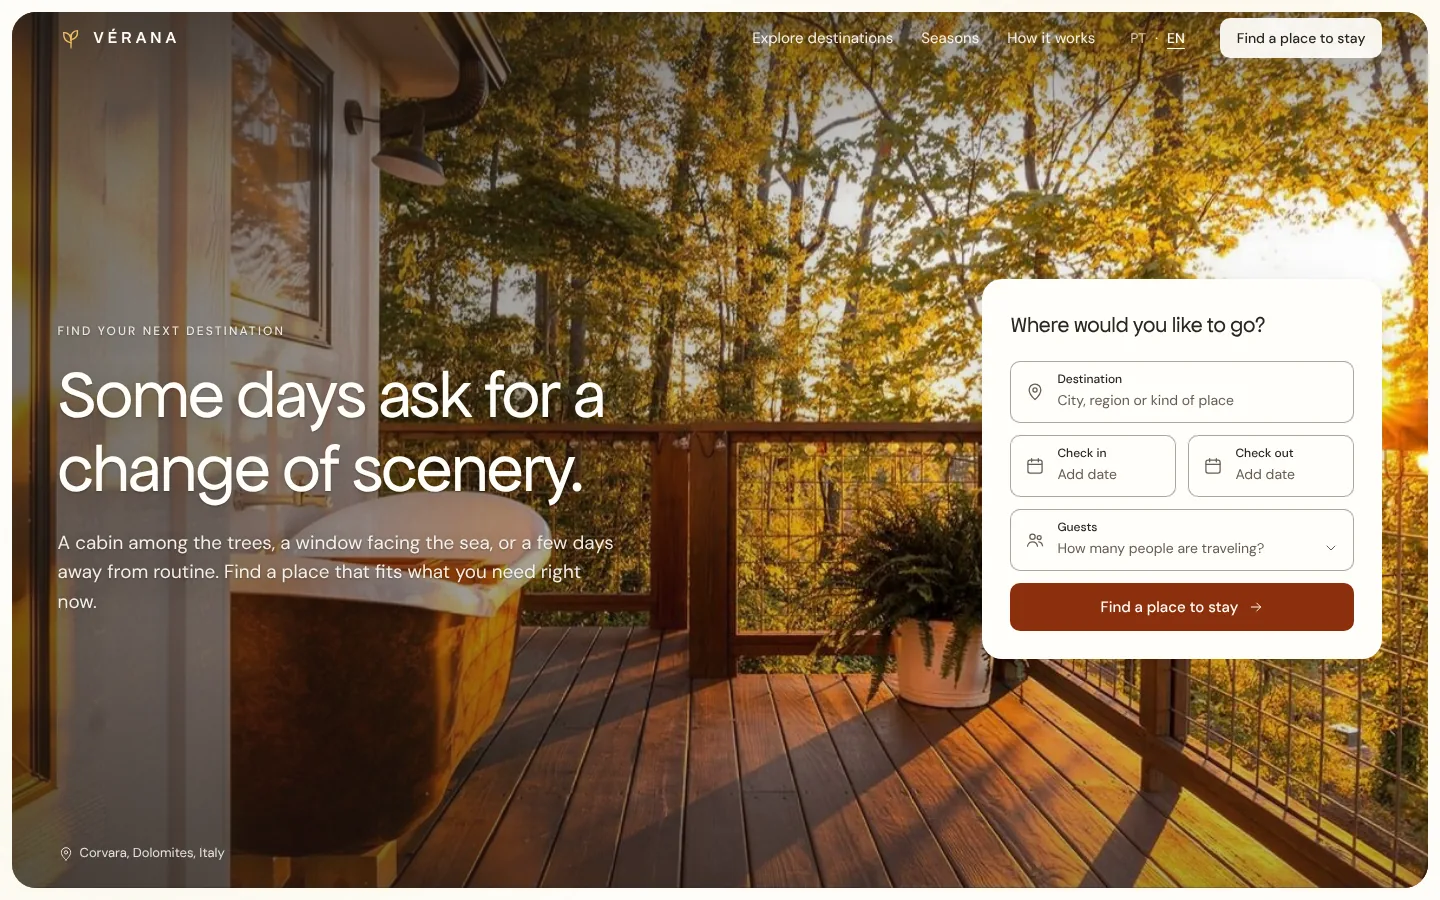
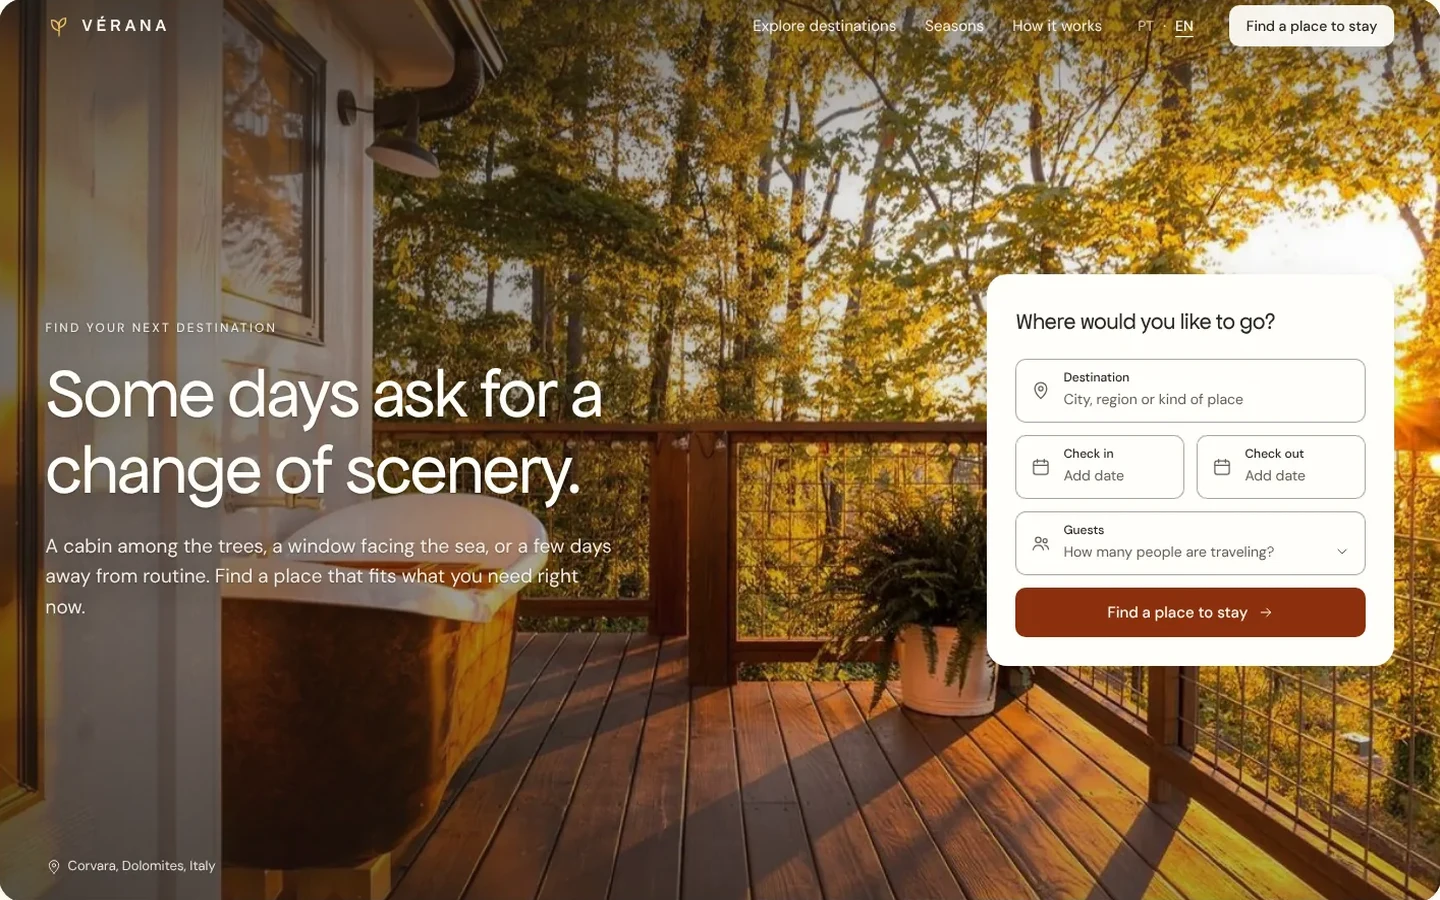
Refinos: cards levam ao estudo de caso, abordagem em três etapas, sobre enxuto, menu mobile, capas uniformes
Claude-Session: https://claude.ai/code/session_01BZ456HDf5k3tjUDJzN71Gb

diff --git a/index.html b/index.html
@@ -20,7 +20,7 @@
    Preto abre e fecha, branco apresenta o trabalho, o roxo só seleciona. */
 :root{
   --black:#08080C; --white:#FFFFFF; --purple:#7954F6;
-  --ink:#08080C; --ink-2:#55545E; --ink-3:#8B8A94; --paper-2:#F3F2F6;
+  --ink:#08080C; --ink-2:#55545E; --ink-3:#6A6973; --paper-2:#F3F2F6;
   --on-dark-2:#A6A5AF; --line-dark:#24232B;
   --display:"Archivo", "Archivo Variable", "Arial Narrow", sans-serif;
   --serif:"Instrument Serif", Georgia, serif;
@@ -38,7 +38,7 @@ button{font:inherit;color:inherit;background:none;border:0;padding:0;cursor:poin
 img{display:block;max-width:100%}
 ::selection{background:var(--purple);color:var(--white)}
 :focus-visible{outline:2px solid var(--purple);outline-offset:4px;border-radius:4px}
-section{scroll-margin-top:64px}
+section{scroll-margin-top:96px}
 
 .wrap{padding-inline:var(--pad)}
 .cols{display:grid;grid-template-columns:repeat(12,minmax(0,1fr));column-gap:var(--gap)}
@@ -105,24 +105,27 @@ body.on-light .top.is-solid{background:rgba(255,255,255,.86)}
 /* projetos: duas colunas idênticas */
 .grid{display:grid;grid-template-columns:repeat(2,minmax(0,1fr));column-gap:var(--gap);row-gap:clamp(48px, 5.4vw, 80px)}
 .card{display:block}
+.card__media{display:block}
 .card__img{aspect-ratio:16/10;border-radius:var(--r);overflow:hidden;background:var(--paper-2)}
 .card__img img{width:100%;height:100%;object-fit:cover;object-position:top;transition:transform 1.1s var(--ease)}
 .card__row{display:flex;align-items:baseline;justify-content:space-between;gap:16px;margin-top:22px}
 .card__name{margin:0;font-family:var(--display);font-stretch:62%;font-weight:800;text-transform:uppercase;font-size:clamp(28px, 2.4vw, 36px);line-height:1;transition:color .3s var(--ease)}
 .card__cat{font-size:14px;color:var(--ink-3);white-space:nowrap}
 .card__desc{margin:10px 0 0;max-width:46ch;color:var(--ink-2)}
+.card__links{display:flex;gap:28px;margin-top:18px;font-size:15px;font-weight:500}
+.card__links a{display:inline-flex;gap:6px;align-items:center;color:var(--ink);padding-block:6px;border-bottom:1.5px solid transparent;transition:color .3s var(--ease),border-color .3s var(--ease)}
+.card__links a:hover{color:var(--purple);border-color:var(--purple)}
 @media (hover:hover) and (pointer:fine){
   .card:hover .card__img img{transform:scale(1.025)}
   .card:hover .card__name{color:var(--purple)}
 }
-.cases{margin-top:clamp(36px, 4vw, 56px);color:var(--ink-3);font-size:14px}
-.cases a{color:var(--ink);border-bottom:1px solid rgba(8,8,12,.2);transition:border-color .3s, color .3s}
-.cases a:hover{color:var(--purple);border-color:var(--purple)}
 
-/* abordagem: um parágrafo, com os três verbos dentro do texto */
+/* abordagem: a ideia em uma frase e as três etapas lado a lado */
 .approach .title{grid-column:1 / span 4}
-.approach__text{grid-column:5 / span 8;margin:0;font-family:var(--serif);font-size:clamp(28px, 3vw, 44px);line-height:1.14;letter-spacing:-.01em;color:var(--ink-2)}
-.approach__text em{font-style:italic;color:var(--ink)}
+.approach__lead{grid-column:5 / span 8;margin:0;font-family:var(--serif);font-size:clamp(28px, 3vw, 44px);line-height:1.14;letter-spacing:-.005em;color:var(--ink)}
+.steps{grid-column:5 / span 8;display:grid;grid-template-columns:repeat(3,minmax(0,1fr));column-gap:var(--gap);margin:clamp(40px, 4.4vw, 64px) 0 0;padding:0;list-style:none}
+.steps b{display:block;font-family:var(--serif);font-style:italic;font-weight:400;font-size:clamp(34px, 3.2vw, 48px);line-height:1;letter-spacing:-.01em;color:var(--purple)}
+.steps span{display:block;margin-top:12px;max-width:24ch;color:var(--ink-2);line-height:1.5}
 
 /* sobre */
 .about__photo{grid-column:1 / span 5;margin:0;border-radius:var(--r);overflow:hidden;aspect-ratio:4/5;background:var(--paper-2)}
@@ -130,6 +133,8 @@ body.on-light .top.is-solid{background:rgba(255,255,255,.86)}
 .about__copy{grid-column:7 / span 6;align-self:center}
 .about__copy .title{margin-bottom:32px}
 .about__copy .lead{margin-bottom:24px;color:var(--ink)}
+.about__does{display:flex;flex-wrap:wrap;gap:10px;margin:28px 0 0;padding:0;list-style:none}
+.about__does li{padding:9px 16px;border-radius:999px;background:var(--paper-2);color:var(--ink);font-size:15px}
 .about__copy p:not(.lead){margin:0 0 16px;max-width:54ch;color:var(--ink-2);font-size:17px;line-height:1.65}
 
 /* ===================== CONTATO ===================== */
@@ -161,7 +166,7 @@ body.on-light .top.is-solid{background:rgba(255,255,255,.86)}
   .head .title{grid-column:1 / -1}
   .head .lead{grid-column:1 / span 8;margin-top:20px}
   .approach .title{grid-column:1 / -1;margin-bottom:28px}
-  .approach__text{grid-column:1 / -1}
+  .approach__lead,.steps{grid-column:1 / -1}
   .about__photo{grid-column:1 / span 6}
   .about__copy{grid-column:7 / span 6}
   .contact__title{grid-column:1 / -1}
@@ -172,15 +177,22 @@ body.on-light .top.is-solid{background:rgba(255,255,255,.86)}
    Os projetos ficam um por linha, com o mesmo cartão. */
 @media (max-width:700px){
   .top{padding:16px var(--pad)}
-  .nav{display:none}
-  .hero{padding-top:120px;padding-bottom:88px}
-  .brand span{display:block}
+  .top{flex-wrap:wrap;row-gap:14px;align-items:baseline}
+  .top__end{display:contents}
+  .lang{order:2}
+  .nav{order:3;flex:0 0 100%;gap:26px;font-size:15px}
+  .nav a{opacity:.75;padding-block:2px}
+  .top.is-solid{padding-block:12px}
+  .hero{padding-top:172px;padding-bottom:88px}
+  .brand span{display:none}
   .hero__intro{grid-column:1 / -1}
   .hero__title .l1{font-size:21vw}
   .hero__title .l2{font-size:14.6vw;text-align:left}
   .head .lead{grid-column:1 / -1}
   .grid{grid-template-columns:1fr}
   .card__row{flex-direction:column;gap:6px}
+  .steps{grid-template-columns:1fr;row-gap:28px}
+  .steps span{max-width:none}
   .about__photo,.about__copy{grid-column:1 / -1}
   .about__photo{margin-bottom:48px}
   .contact__side{grid-column:1 / -1}
@@ -214,7 +226,7 @@ body.on-light .top.is-solid{background:rgba(255,255,255,.86)}
     </h1>
     <div class="cols">
       <div class="hero__intro">
-        <p class="lead" data-i18n="heroText">Web designer com atuação em UX/UI. <span>Crio interfaces e experiências digitais em que cada escolha visual responde a uma pergunta sobre quem vai usar.</span></p>
+        <p class="lead" data-i18n="heroText">Crio interfaces em que cada escolha visual <span>responde a uma pergunta sobre quem vai usar.</span></p>
       </div>
     </div>
   </section>
@@ -223,43 +235,46 @@ body.on-light .top.is-solid{background:rgba(255,255,255,.86)}
     <section class="block wrap" id="trabalhos" aria-labelledby="work-title">
       <div class="cols head">
         <h2 class="title" id="work-title" data-i18n="workTitle">Projetos selecionados</h2>
-        <p class="lead" data-i18n="workText">Experiências digitais construídas com intenção, clareza e <em>personalidade.</em></p>
+        <p class="lead" data-i18n="workText">Do problema à interface <em>publicada.</em></p>
       </div>
 
       <div class="grid">
-        <a class="card" href="https://nexus-games-roan-xi.vercel.app/?lang=pt" data-href-pt="https://nexus-games-roan-xi.vercel.app/?lang=pt" data-href-en="https://nexus-games-roan-xi.vercel.app/?lang=en" target="_blank" rel="noopener">
-          <div class="card__img"><img src="assets/hero/nexus-d.webp" data-src-pt="assets/hero/nexus-d.webp" data-src-en="assets/hero/nexus-d-en.webp" alt="Página inicial da Nexus" width="1600" height="1000" loading="lazy"></div>
-          <div class="card__row"><h3 class="card__name">Nexus</h3><span class="card__cat" data-i18n="catNexus">UX/UI e Web Design</span></div>
+        <article class="card">
+          <a class="card__media" href="https://nexus-portifolio-seven.vercel.app/" data-href-pt="https://nexus-portifolio-seven.vercel.app/" data-href-en="https://nexus-portifolio-seven.vercel.app/?lang=en" target="_blank" rel="noopener" tabindex="-1" aria-hidden="true"><div class="card__img"><img src="assets/hero/nexus-d.webp" data-src-pt="assets/hero/nexus-d.webp" data-src-en="assets/hero/nexus-d-en.webp" alt="Página inicial da Nexus" width="1600" height="1000" loading="lazy"></div></a>
+          <div class="card__row"><h3 class="card__name"><a href="https://nexus-portifolio-seven.vercel.app/" data-href-pt="https://nexus-portifolio-seven.vercel.app/" data-href-en="https://nexus-portifolio-seven.vercel.app/?lang=en" target="_blank" rel="noopener">Nexus</a></h3><span class="card__cat" data-i18n="catNexus">UX/UI e Web Design</span></div>
           <p class="card__desc" data-i18n="descNexus">Uma só biblioteca para jogos da Steam, do Xbox e da Epic, com recomendações que explicam o porquê.</p>
-        </a>
-        <a class="card" href="https://lueur-site.vercel.app/?lang=pt" data-href-pt="https://lueur-site.vercel.app/?lang=pt" data-href-en="https://lueur-site.vercel.app/?lang=en" target="_blank" rel="noopener">
-          <div class="card__img"><img src="assets/hero/lueur-d.webp" data-src-pt="assets/hero/lueur-d.webp" data-src-en="assets/hero/lueur-d-en.webp" alt="Página inicial da Lueur" width="1440" height="900" loading="lazy"></div>
-          <div class="card__row"><h3 class="card__name">Lueur</h3><span class="card__cat" data-i18n="catLueur">Web Design</span></div>
+          <div class="card__links"><a href="https://nexus-portifolio-seven.vercel.app/" data-href-pt="https://nexus-portifolio-seven.vercel.app/" data-href-en="https://nexus-portifolio-seven.vercel.app/?lang=en" target="_blank" rel="noopener"><span data-i18n="caseLink">Ver estudo de caso</span> →</a></div>
+        </article>
+        <article class="card">
+          <a class="card__media" href="https://lueur-portifolio.vercel.app" data-href-pt="https://lueur-portifolio.vercel.app" target="_blank" rel="noopener" tabindex="-1" aria-hidden="true"><div class="card__img"><img src="assets/hero/lueur-d.webp" data-src-pt="assets/hero/lueur-d.webp" data-src-en="assets/hero/lueur-d-en.webp" alt="Página inicial da Lueur" width="1440" height="900" loading="lazy"></div></a>
+          <div class="card__row"><h3 class="card__name"><a href="https://lueur-portifolio.vercel.app" data-href-pt="https://lueur-portifolio.vercel.app" target="_blank" rel="noopener">Lueur</a></h3><span class="card__cat" data-i18n="catLueur">Web Design</span></div>
           <p class="card__desc" data-i18n="descLueur">Site de uma perfumaria conceitual, construído em torno do que fica depois que você sai.</p>
-        </a>
-        <a class="card" href="https://verana-jet.vercel.app" data-href-pt="https://verana-jet.vercel.app" data-href-en="https://verana-jet.vercel.app/?lang=en" target="_blank" rel="noopener">
-          <div class="card__img"><img src="assets/hero/verana-d.webp" data-src-pt="assets/hero/verana-d.webp" data-src-en="assets/hero/verana-d-en.webp" alt="Página inicial da Verana" width="1440" height="900" loading="lazy"></div>
-          <div class="card__row"><h3 class="card__name">Verana</h3><span class="card__cat" data-i18n="catVerana">UX/UI e Web Design</span></div>
+          <div class="card__links"><a href="https://lueur-portifolio.vercel.app" data-href-pt="https://lueur-portifolio.vercel.app" target="_blank" rel="noopener"><span data-i18n="caseLink">Ver estudo de caso</span> →</a></div>
+        </article>
+        <article class="card">
+          <a class="card__media" href="https://verana-case.vercel.app" data-href-pt="https://verana-case.vercel.app" data-href-en="https://verana-case.vercel.app?lang=en" target="_blank" rel="noopener" tabindex="-1" aria-hidden="true"><div class="card__img"><img src="assets/hero/verana-d.webp" data-src-pt="assets/hero/verana-d.webp" data-src-en="assets/hero/verana-d-en.webp" alt="Página inicial da Verana" width="1440" height="900" loading="lazy"></div></a>
+          <div class="card__row"><h3 class="card__name"><a href="https://verana-case.vercel.app" data-href-pt="https://verana-case.vercel.app" data-href-en="https://verana-case.vercel.app?lang=en" target="_blank" rel="noopener">Verana</a></h3><span class="card__cat" data-i18n="catVerana">UX/UI e Web Design</span></div>
           <p class="card__desc" data-i18n="descVerana">Busca de hospedagens para quem quer trocar de cenário no próprio ritmo.</p>
-        </a>
-        <a class="card" href="https://voltw.vercel.app/?lang=pt" data-href-pt="https://voltw.vercel.app/?lang=pt" data-href-en="https://voltw.vercel.app/?lang=en" target="_blank" rel="noopener">
-          <div class="card__img"><img src="assets/hero/volt-d.webp" data-src-pt="assets/hero/volt-d.webp" data-src-en="assets/hero/volt-d-en.webp" alt="Página inicial do Volt One" width="1440" height="900" loading="lazy"></div>
+          <div class="card__links"><a href="https://verana-case.vercel.app" data-href-pt="https://verana-case.vercel.app" data-href-en="https://verana-case.vercel.app?lang=en" target="_blank" rel="noopener"><span data-i18n="caseLink">Ver estudo de caso</span> →</a></div>
+        </article>
+        <article class="card">
+          <a class="card__media" href="https://voltw.vercel.app/?lang=pt" data-href-pt="https://voltw.vercel.app/?lang=pt" data-href-en="https://voltw.vercel.app/?lang=en" target="_blank" rel="noopener" tabindex="-1" aria-hidden="true"><div class="card__img"><img src="assets/hero/volt-d.webp" data-src-pt="assets/hero/volt-d.webp" data-src-en="assets/hero/volt-d-en.webp" alt="Página inicial do Volt One" width="1440" height="900" loading="lazy"></div></a>
           <div class="card__row"><h3 class="card__name">Volt One</h3><span class="card__cat" data-i18n="catVolt">Web Design e 3D</span></div>
           <p class="card__desc" data-i18n="descVolt">Lançamento de um smartwatch que se revela camada por camada, em 3D.</p>
-        </a>
+          <div class="card__links"><a class="" href="https://voltw.vercel.app/?lang=pt" data-href-pt="https://voltw.vercel.app/?lang=pt" data-href-en="https://voltw.vercel.app/?lang=en" target="_blank" rel="noopener"><span data-i18n="siteLink">Ver site</span> ↗</a></div>
+        </article>
       </div>
-
-      <p class="cases"><span data-i18n="casesLabel">Estudos de caso:</span>
-        <a href="https://nexus-portifolio-seven.vercel.app/" data-href-pt="https://nexus-portifolio-seven.vercel.app/" data-href-en="https://nexus-portifolio-seven.vercel.app/?lang=en" target="_blank" rel="noopener">Nexus</a>,
-        <a href="https://lueur-portifolio-6fxg7fxj7-jhonatans-projects-c4943e9b.vercel.app" target="_blank" rel="noopener">Lueur</a> <span data-i18n="and">e</span>
-        <a href="https://verana-case.vercel.app" data-href-pt="https://verana-case.vercel.app" data-href-en="https://verana-case.vercel.app/?lang=en" target="_blank" rel="noopener">Verana</a>.
-      </p>
     </section>
 
     <section class="block wrap approach" aria-labelledby="approach-title">
       <div class="cols">
         <h2 class="title" id="approach-title" data-i18n="apTitle">Abordagem</h2>
-        <p class="approach__text" data-i18n="apText">A estética vem depois das perguntas. Primeiro <em>entendo</em> o contexto, as pessoas e o objetivo. Depois <em>estruturo</em> a hierarquia, a navegação e a ordem da informação. Só então <em>projeto</em> a interface, a interação e cada detalhe visual.</p>
+        <p class="approach__lead" data-i18n="apLead">A estética vem depois das perguntas.</p>
+        <ol class="steps">
+          <li><b data-i18n="st1">Entendo</b><span data-i18n="st1t">o contexto, as pessoas e o objetivo.</span></li>
+          <li><b data-i18n="st2">Estruturo</b><span data-i18n="st2t">a hierarquia, a navegação e a ordem da informação.</span></li>
+          <li><b data-i18n="st3">Projeto</b><span data-i18n="st3t">a interface, a interação e cada detalhe visual.</span></li>
+        </ol>
       </div>
     </section>
 
@@ -269,8 +284,8 @@ body.on-light .top.is-solid{background:rgba(255,255,255,.86)}
         <div class="about__copy">
           <h2 class="title" id="about-title" data-i18n="abTitle">Curioso por natureza</h2>
           <p class="lead" data-i18n="ab1">O que me move é entender o que existe por trás de cada ideia: quem vai usar, do que essa pessoa precisa e como transformar isso em uma experiência <em>clara.</em></p>
-          <p data-i18n="ab2">Aprendo experimentando. Observo o problema por diferentes perspectivas e presto atenção aos detalhes que costumam passar despercebidos, porque é neles que muitas vezes está a melhor solução.</p>
-          <p data-i18n="ab3">Acredito que sempre há algo novo para descobrir, aprender e construir. Por isso fujo do óbvio e levo essa curiosidade para cada projeto.</p>
+          <p data-i18n="ab2">Aprendo experimentando e olho cada problema por mais de um ângulo. Presto atenção nos detalhes que passam despercebidos, porque é neles que costuma estar a melhor solução.</p>
+          <ul class="about__does"><li data-i18n="do1">Design de interfaces</li><li data-i18n="do2">Protótipos no Figma</li><li data-i18n="do3">Sites e landing pages</li></ul>
         </div>
       </div>
     </section>
@@ -280,7 +295,7 @@ body.on-light .top.is-solid{background:rgba(255,255,255,.86)}
     <div class="cols">
       <h2 class="contact__title" id="contact-title" data-i18n="ctTitle">Vamos <em>conversar?</em></h2>
       <div class="contact__side">
-        <p class="lead" data-i18n="ctText">Disponível para novos projetos e boas ideias.</p>
+        <p class="lead" data-i18n="ctText">Atendo no Brasil e no exterior. Conte o que você precisa construir.</p>
         <button class="mail" type="button" data-copy="jwcarvalho.f@gmail.com" aria-describedby="mail-state">
           jwcarvalho.f@gmail.com
           <svg class="ic-copy" viewBox="0 0 20 20" fill="none" stroke="currentColor" stroke-width="1.5" aria-hidden="true"><rect x="6.5" y="6.5" width="10" height="10" rx="2.5"/><path d="M13.5 4.5v-.5a2 2 0 0 0-2-2h-6a2 2 0 0 0-2 2v6a2 2 0 0 0 2 2h.5"/></svg>
@@ -302,37 +317,35 @@ body.on-light .top.is-solid{background:rgba(255,255,255,.86)}
 "use strict";
 const I18N = {
   pt:{ navWork:"Trabalhos", navAbout:"Sobre", navContact:"Contato",
-    heroText:"Web designer com atuação em UX/UI. <span>Crio interfaces e experiências digitais em que cada escolha visual responde a uma pergunta sobre quem vai usar.</span>",
+    heroText:"Crio interfaces em que cada escolha visual <span>responde a uma pergunta sobre quem vai usar.</span>",
     ctaWork:"Explorar projetos", h1a:"Primeiro entendo.", h1b:"Depois desenho.",
-    workTitle:"Projetos selecionados", workText:"Experiências digitais construídas com intenção, clareza e <em>personalidade.</em>",
+    workTitle:"Projetos selecionados", workText:"Do problema à interface <em>publicada.</em>",
     catNexus:"UX/UI e Web Design", catLueur:"Web Design", catVerana:"UX/UI e Web Design", catVolt:"Web Design e 3D",
     descNexus:"Uma só biblioteca para jogos da Steam, do Xbox e da Epic, com recomendações que explicam o porquê.",
     descLueur:"Site de uma perfumaria conceitual, construído em torno do que fica depois que você sai.",
     descVerana:"Busca de hospedagens para quem quer trocar de cenário no próprio ritmo.",
     descVolt:"Lançamento de um smartwatch que se revela camada por camada, em 3D.",
-    casesLabel:"Estudos de caso:", and:"e",
-    apTitle:"Abordagem", apText:"A estética vem depois das perguntas. Primeiro <em>entendo</em> o contexto, as pessoas e o objetivo. Depois <em>estruturo</em> a hierarquia, a navegação e a ordem da informação. Só então <em>projeto</em> a interface, a interação e cada detalhe visual.",
+    caseLink:"Ver estudo de caso", siteLink:"Ver site", do1:"Design de interfaces", do2:"Protótipos no Figma", do3:"Sites e landing pages",
+    apTitle:"Abordagem", apLead:"A estética vem depois das perguntas.", st1:"Entendo", st1t:"o contexto, as pessoas e o objetivo.", st2:"Estruturo", st2t:"a hierarquia, a navegação e a ordem da informação.", st3:"Projeto", st3t:"a interface, a interação e cada detalhe visual.",
     abTitle:"Curioso por natureza",
     ab1:"O que me move é entender o que existe por trás de cada ideia: quem vai usar, do que essa pessoa precisa e como transformar isso em uma experiência <em>clara.</em>",
-    ab2:"Aprendo experimentando. Observo o problema por diferentes perspectivas e presto atenção aos detalhes que costumam passar despercebidos, porque é neles que muitas vezes está a melhor solução.",
-    ab3:"Acredito que sempre há algo novo para descobrir, aprender e construir. Por isso fujo do óbvio e levo essa curiosidade para cada projeto.",
-    ctTitle:"Vamos <em>conversar?</em>", ctText:"Disponível para novos projetos e boas ideias.", mailApp:"Abrir no e-mail ↗", copied:"E-mail copiado." },
+    ab2:"Aprendo experimentando e olho cada problema por mais de um ângulo. Presto atenção nos detalhes que passam despercebidos, porque é neles que costuma estar a melhor solução.",
+    ctTitle:"Vamos <em>conversar?</em>", ctText:"Atendo no Brasil e no exterior. Conte o que você precisa construir.", mailApp:"Abrir no e-mail ↗", copied:"E-mail copiado." },
   en:{ navWork:"Work", navAbout:"About", navContact:"Contact",
-    heroText:"Web designer working in UX/UI. <span>I design interfaces and digital experiences where every visual choice answers a question about who will use it.</span>",
+    heroText:"I design interfaces where every visual choice <span>answers a question about who will use it.</span>",
     ctaWork:"Explore projects", h1a:"First I understand.", h1b:"Then I design.",
-    workTitle:"Selected projects", workText:"Digital experiences built with intention, clarity and <em>personality.</em>",
+    workTitle:"Selected projects", workText:"From the problem to the <em>published</em> interface.",
     catNexus:"UX/UI and Web Design", catLueur:"Web Design", catVerana:"UX/UI and Web Design", catVolt:"Web Design and 3D",
     descNexus:"One library for Steam, Xbox and Epic games, with recommendations that explain why.",
     descLueur:"Website for a conceptual perfume house, built around what stays after you leave.",
     descVerana:"Stay search for people who want a change of scenery at their own pace.",
     descVolt:"Launch of a smartwatch that reveals itself layer by layer, in 3D.",
-    casesLabel:"Case studies:", and:"and",
-    apTitle:"Approach", apText:"Aesthetics come after the questions. First I <em>understand</em> the context, the people and the goal. Then I <em>structure</em> the hierarchy, the navigation and the order of information. Only then do I <em>design</em> the interface, the interaction and every visual detail.",
+    caseLink:"View case study", siteLink:"View site", do1:"Interface design", do2:"Figma prototypes", do3:"Websites and landing pages",
+    apTitle:"Approach", apLead:"Aesthetics come after the questions.", st1:"I understand", st1t:"the context, the people and the goal.", st2:"I structure", st2t:"the hierarchy, the navigation and the order of information.", st3:"I design", st3t:"the interface, the interaction and every visual detail.",
     abTitle:"Curious by nature",
     ab1:"What drives me is understanding what sits behind every idea: who will use it, what they need and how to turn that into a <em>clear</em> experience.",
-    ab2:"I learn by experimenting. I look at problems from different angles and pay attention to the details that usually go unnoticed, because that's often where the best solution lives.",
-    ab3:"I believe there's always something new to discover, learn and build. So I step away from the obvious and bring that curiosity to every project.",
-    ctTitle:"Let's <em>talk?</em>", ctText:"Available for new projects and good ideas.", mailApp:"Open in mail ↗", copied:"E-mail copied." }
+    ab2:"I learn by experimenting and look at every problem from more than one angle. I pay attention to the details that go unnoticed, because that's usually where the best solution is.",
+    ctTitle:"Let's <em>talk?</em>", ctText:"Working in Brazil and abroad. Tell me what you need to build.", mailApp:"Open in mail ↗", copied:"E-mail copied." }
 };
 const $ = (s, r=document) => r.querySelector(s);
 const $$ = (s, r=document) => [...r.querySelectorAll(s)];
